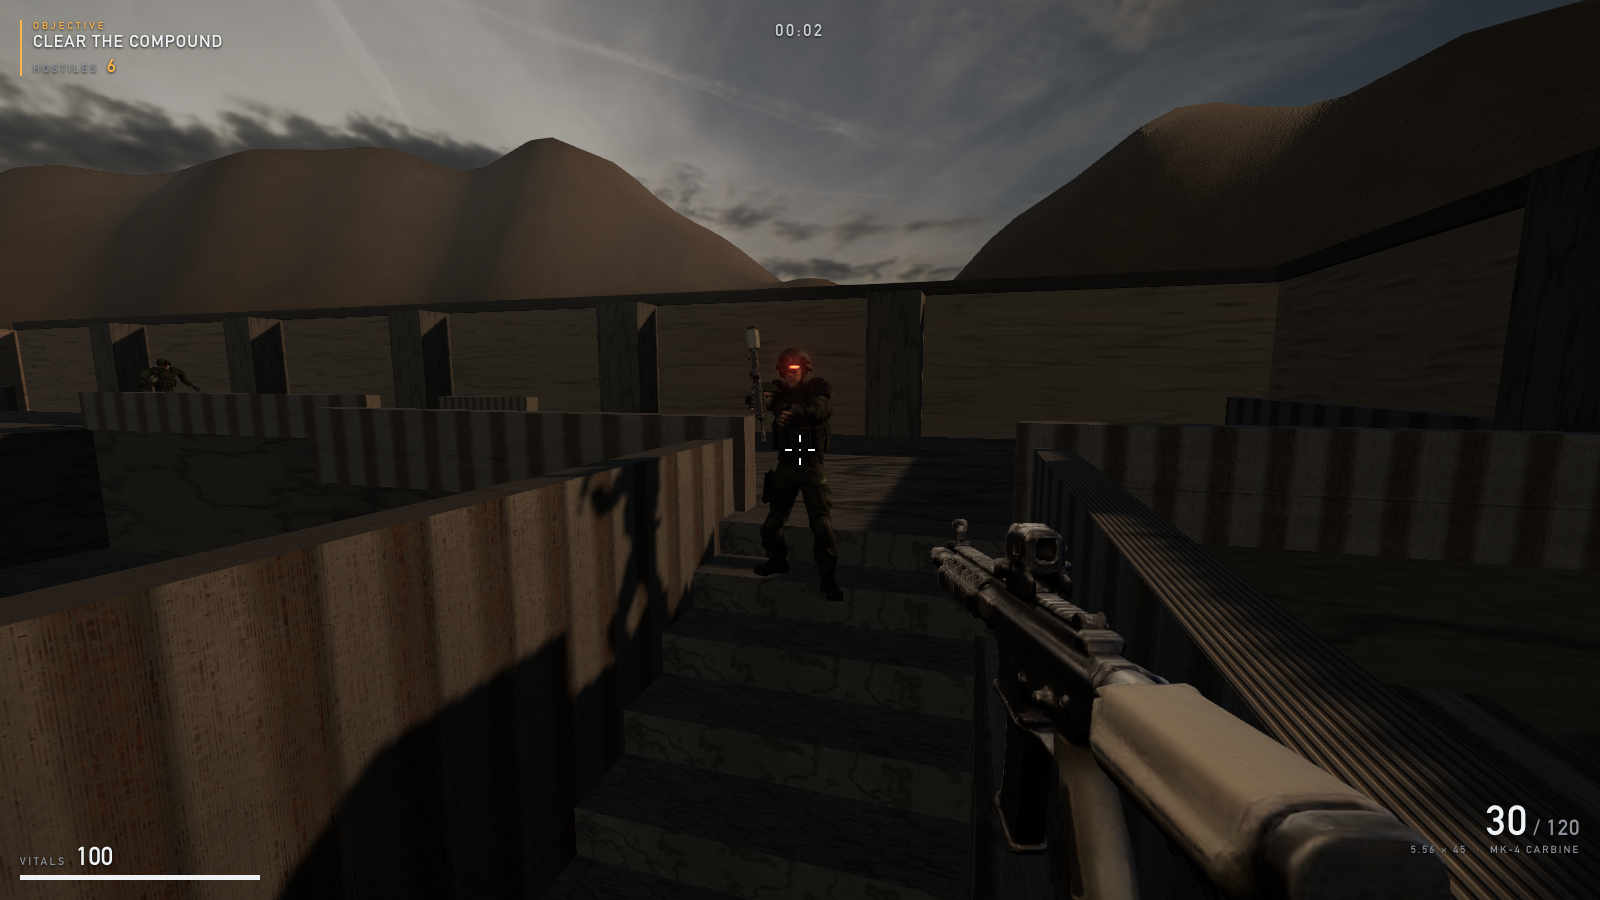
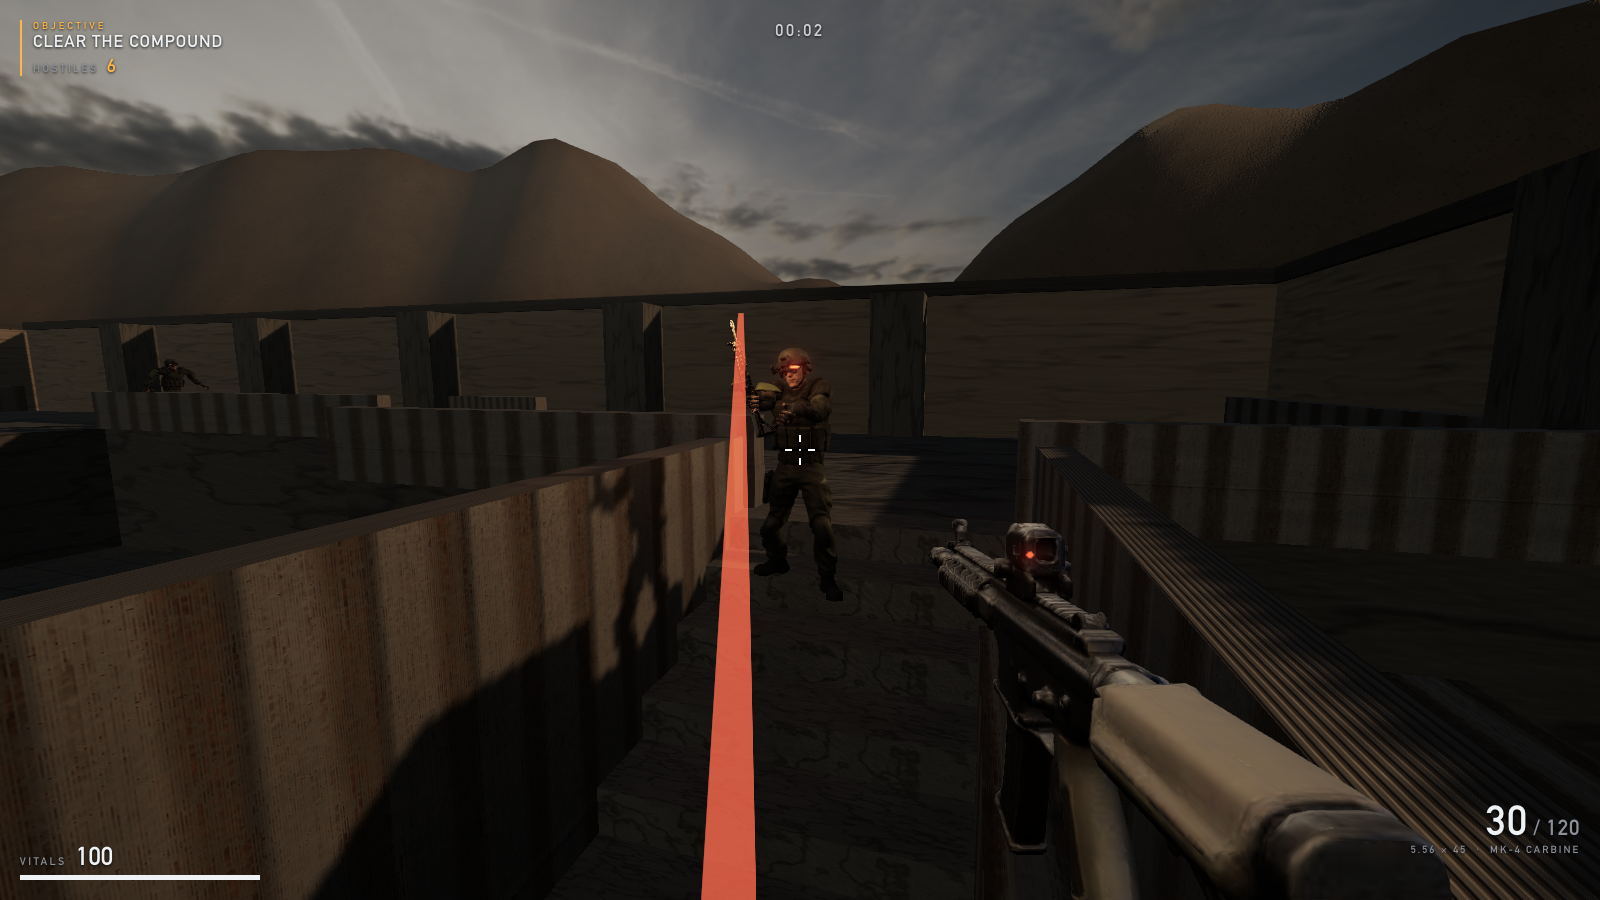
M3 final: 64/64 green, fresh screenshots, recorded run
Full smoke suite green at 64/64. Fresh 7-screenshot set at the M1/M2 angles plus
the enemy close-up, all showing the M3 state: dusk sky, corrugated metal that
reads as metal, the integrated visor telegraph, and the generated carbine in
both the viewmodel and every soldier's hands.

tools/clip.mjs records a 6 s real-time run (shots/run.gif, 2.8 MB) driven by the
same competent-player bot as balance.mjs, so the clip and the win-rate
measurement are showing the same game. The first version looped
page.screenshot() at 2.6 fps -- a slideshow of a firefight -- and was replaced
with CDP Page.startScreencast at ~60 fps; playback duration is derived from the
measured capture rate rather than assumed.

Headline measurements:
  ADS optic          0.01 px from screen centre
  viewmodel budget   5.89% hip / 8.76% ADS   (budget 15%)
  frame cost         16.67 ms postfx ON = locked 60 fps (Apple M4 / ANGLE-Metal)
  AO                 18.9-22.8 ms, 33.4 ms p95 = 44-53 fps -> ships OFF
  luminance          0.172 ON / 0.199 OFF, delta 0.026
  win rate           62.5% over 24 bot runs

diff --git a/BUILD_STATE.md b/BUILD_STATE.md
@@ -382,3 +382,19 @@ instruction.
 - [x] `DECISIONS.md` extended with §26-§34, closing with the **DISSECTION SUMMARY
       — top 10 divergences**, each phrased as a concrete pipeline change. That
       section is the primary deliverable of the exercise.
+- [x] `tools/clip.mjs` — 6 s recorded run (`shots/run.gif`, 2.8 MB), driven by the
+      SAME competent-player bot as `balance.mjs` so what the clip shows and what
+      the win-rate measurement measured are the same thing. First version used
+      `page.screenshot()` in a loop and managed 2.6 fps (a slideshow of a fight);
+      switched to CDP `Page.startScreencast` and captures at ~60 fps real-time.
+      Playback duration is DERIVED from the measured capture rate, not assumed.
+- [x] **M3 VERIFIED: 64/64 assertions, ALL GREEN.** Key numbers: carbine fitted
+      (13,734 verts, 0.86 m, optic local (0.000000, 0.093000), 777 mag triangles)
+      · **ADS optic lands 0.01 px from screen centre** · viewmodel 5.89% hip /
+      8.76% ADS (budget 15%) · frame luminance 0.172 postfx-ON / 0.199 postfx-OFF,
+      Δ0.026, 0.0% clipped white, 1.5% crushed black · postfx 16.67 ms = locked 60
+      · enclosure 0 leaks · AI doctrine 0 violations, all six states observed ·
+      audio graph live · 0 console errors or warnings.
+- [x] Fresh 7-screenshot set captured into `shots/` at the same angles as M1/M2
+      plus the enemy close-up.
+- [x] Dev server verified: `npm run dev` → http://localhost:5178/.
